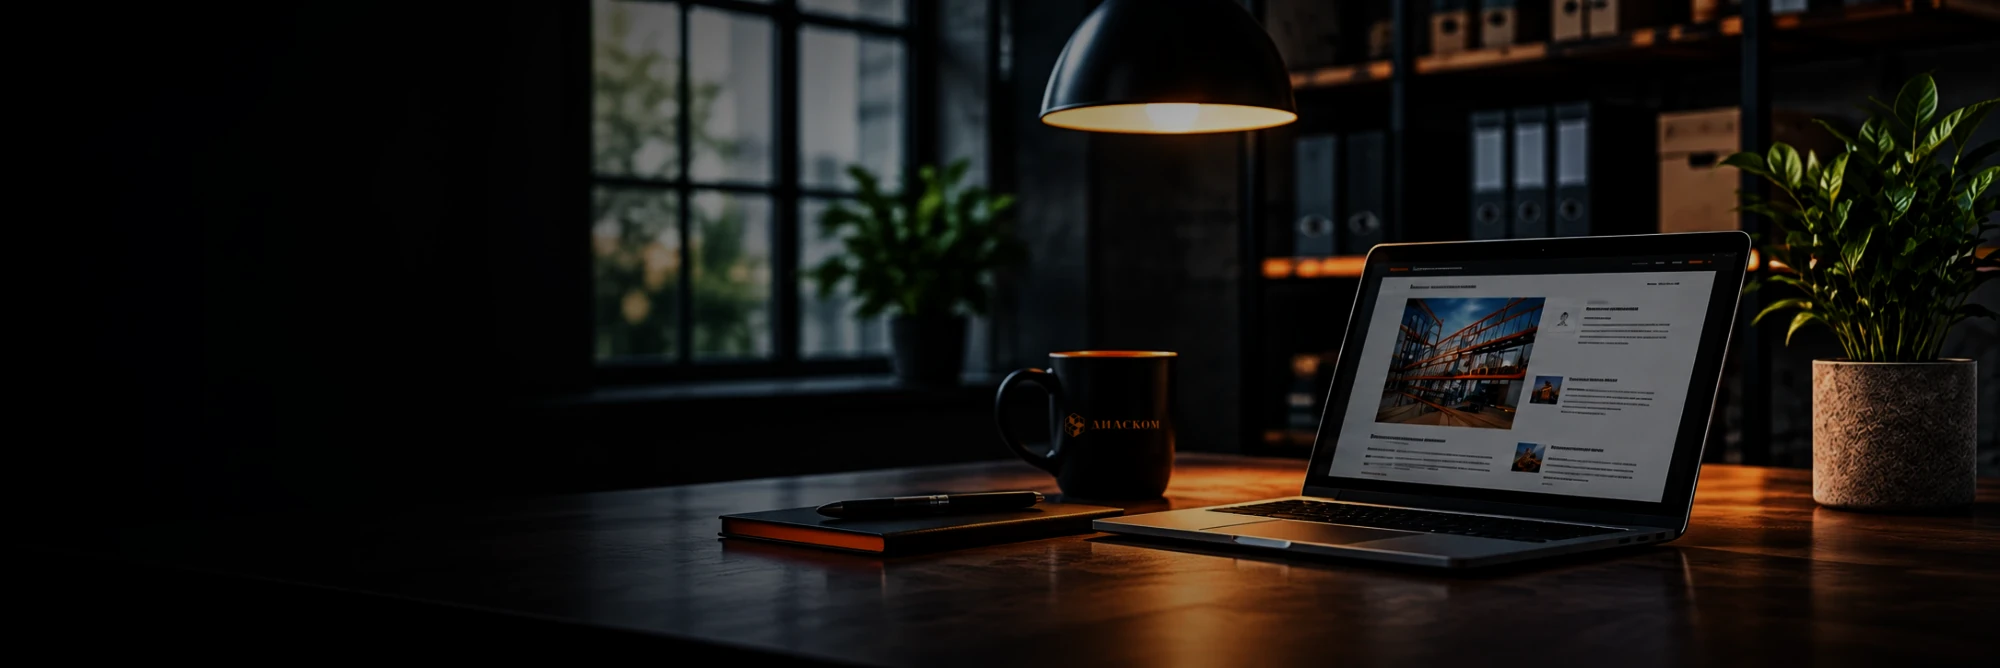
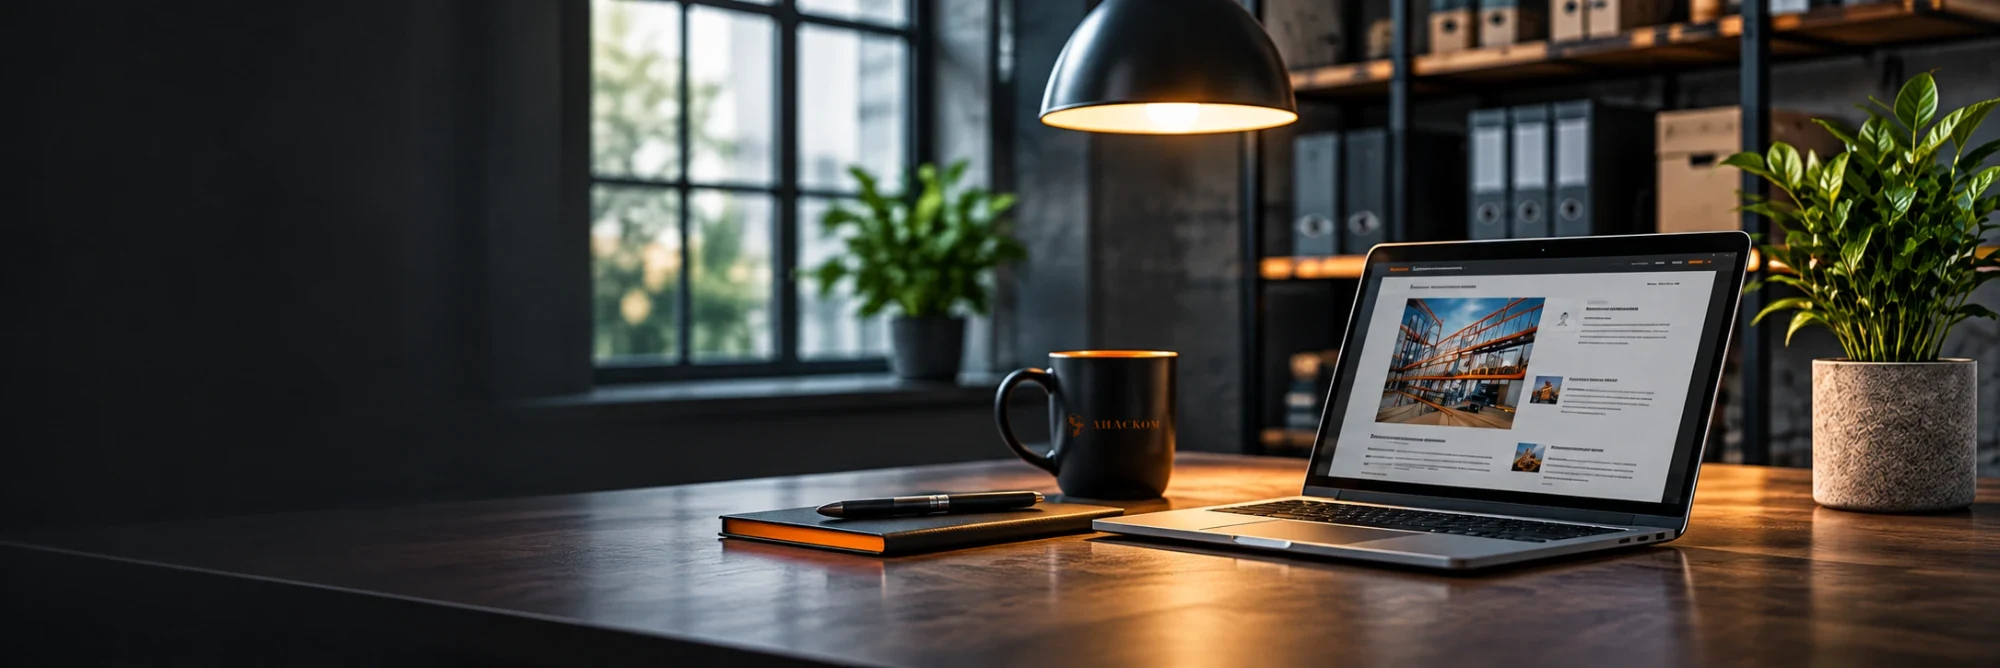
Блог: hero без запечённого затемнения, градиент #1a1a1a в CSS

diff --git a/css/services.css b/css/services.css
@@ -578,7 +578,7 @@ a.sv-pc:hover .sv-pc__btn { background: var(--c-accent-hover); }
 .sv-hero--pt::before { top: var(--header-h); height: calc(100% - var(--header-h)); background: linear-gradient(0deg, #1a1a1a 0, rgba(26, 26, 26, 0) 22%), var(--hero, none) center top / 1440px auto no-repeat; }
 
 /* Блог: широкое фото целиком, без обрезки */
-.sv-hero--bl::before { background: linear-gradient(0deg, #1a1a1a 0, rgba(26, 26, 26, 0) 14%), linear-gradient(90deg, rgba(26, 26, 26, .75) 0, rgba(26, 26, 26, .35) 38%, rgba(26, 26, 26, 0) 62%), var(--hero, none) right center / cover no-repeat; }
+.sv-hero--bl::before { background: linear-gradient(90deg, #1a1a1a 0, #1a1a1a 20%, rgba(26, 26, 26, 0) 100%), linear-gradient(180deg, #1a1a1a 0, rgba(26, 26, 26, 0) 2%, rgba(26, 26, 26, 0) 92%, #1a1a1a 100%), linear-gradient(270deg, #1a1a1a 0, rgba(26, 26, 26, 0) 8%), var(--hero, none) right center / cover no-repeat; }
 @media (max-width: 760px) {
   .sv-hero--bl::before { left: 0; width: 100%; transform: none; background: linear-gradient(180deg, #1a1a1a 0, rgba(26, 26, 26, 0) 22%, rgba(26, 26, 26, 0) 70%, #1a1a1a 100%) 0 400px / 100% 330px no-repeat, var(--hero, none) -488px 400px / auto 330px no-repeat; opacity: 1; }
   .sv-hero--bl .sv-plaques { margin-top: 350px; }

diff --git a/blog.html b/blog.html
@@ -29,7 +29,7 @@
   <link rel="stylesheet" href="css/style.css?v=77">
   <link rel="stylesheet" href="css/mining.css?v=7">
   <link rel="stylesheet" href="css/catalog.css?v=22">
-  <link rel="stylesheet" href="css/services.css?v=76">
+  <link rel="stylesheet" href="css/services.css?v=77">
   <link rel="stylesheet" href="css/unify.css?v=22">
 </head>
 <body class="page-svc">
@@ -145,7 +145,7 @@
 </header>
 
 <main>
-  <section class="sv-hero sv-hero--side sv-hero--bl" style="--hero:url('../img/svc/bl-hero.webp?v=10')">
+  <section class="sv-hero sv-hero--side sv-hero--bl" style="--hero:url('../img/svc/bl-hero.webp?v=11')">
     <div class="container sv-hero__inner">
       <div class="sv-hero__main">
         <nav class="crumbs" aria-label="Навигационная цепочка"><ol><li><a href="/">Главная</a></li><li aria-current="page">Блог</li></ol></nav>
